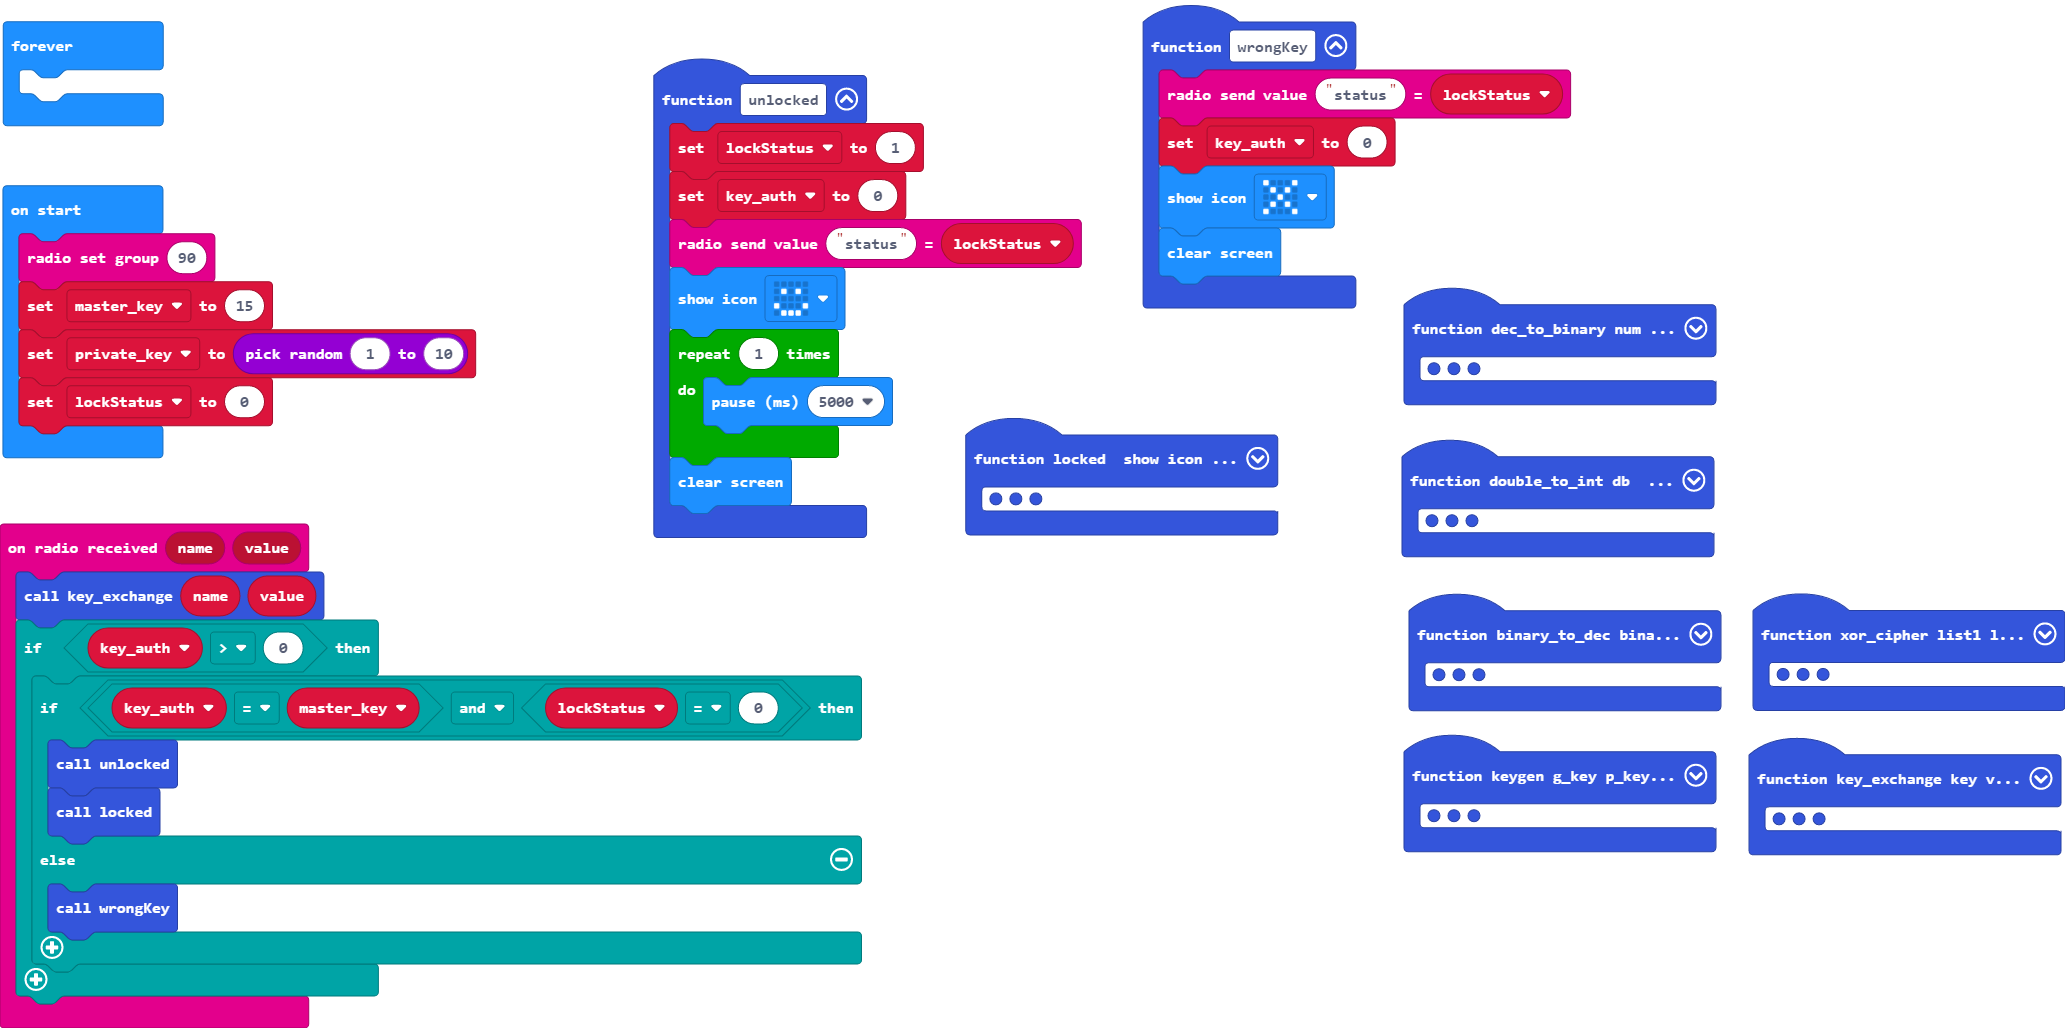
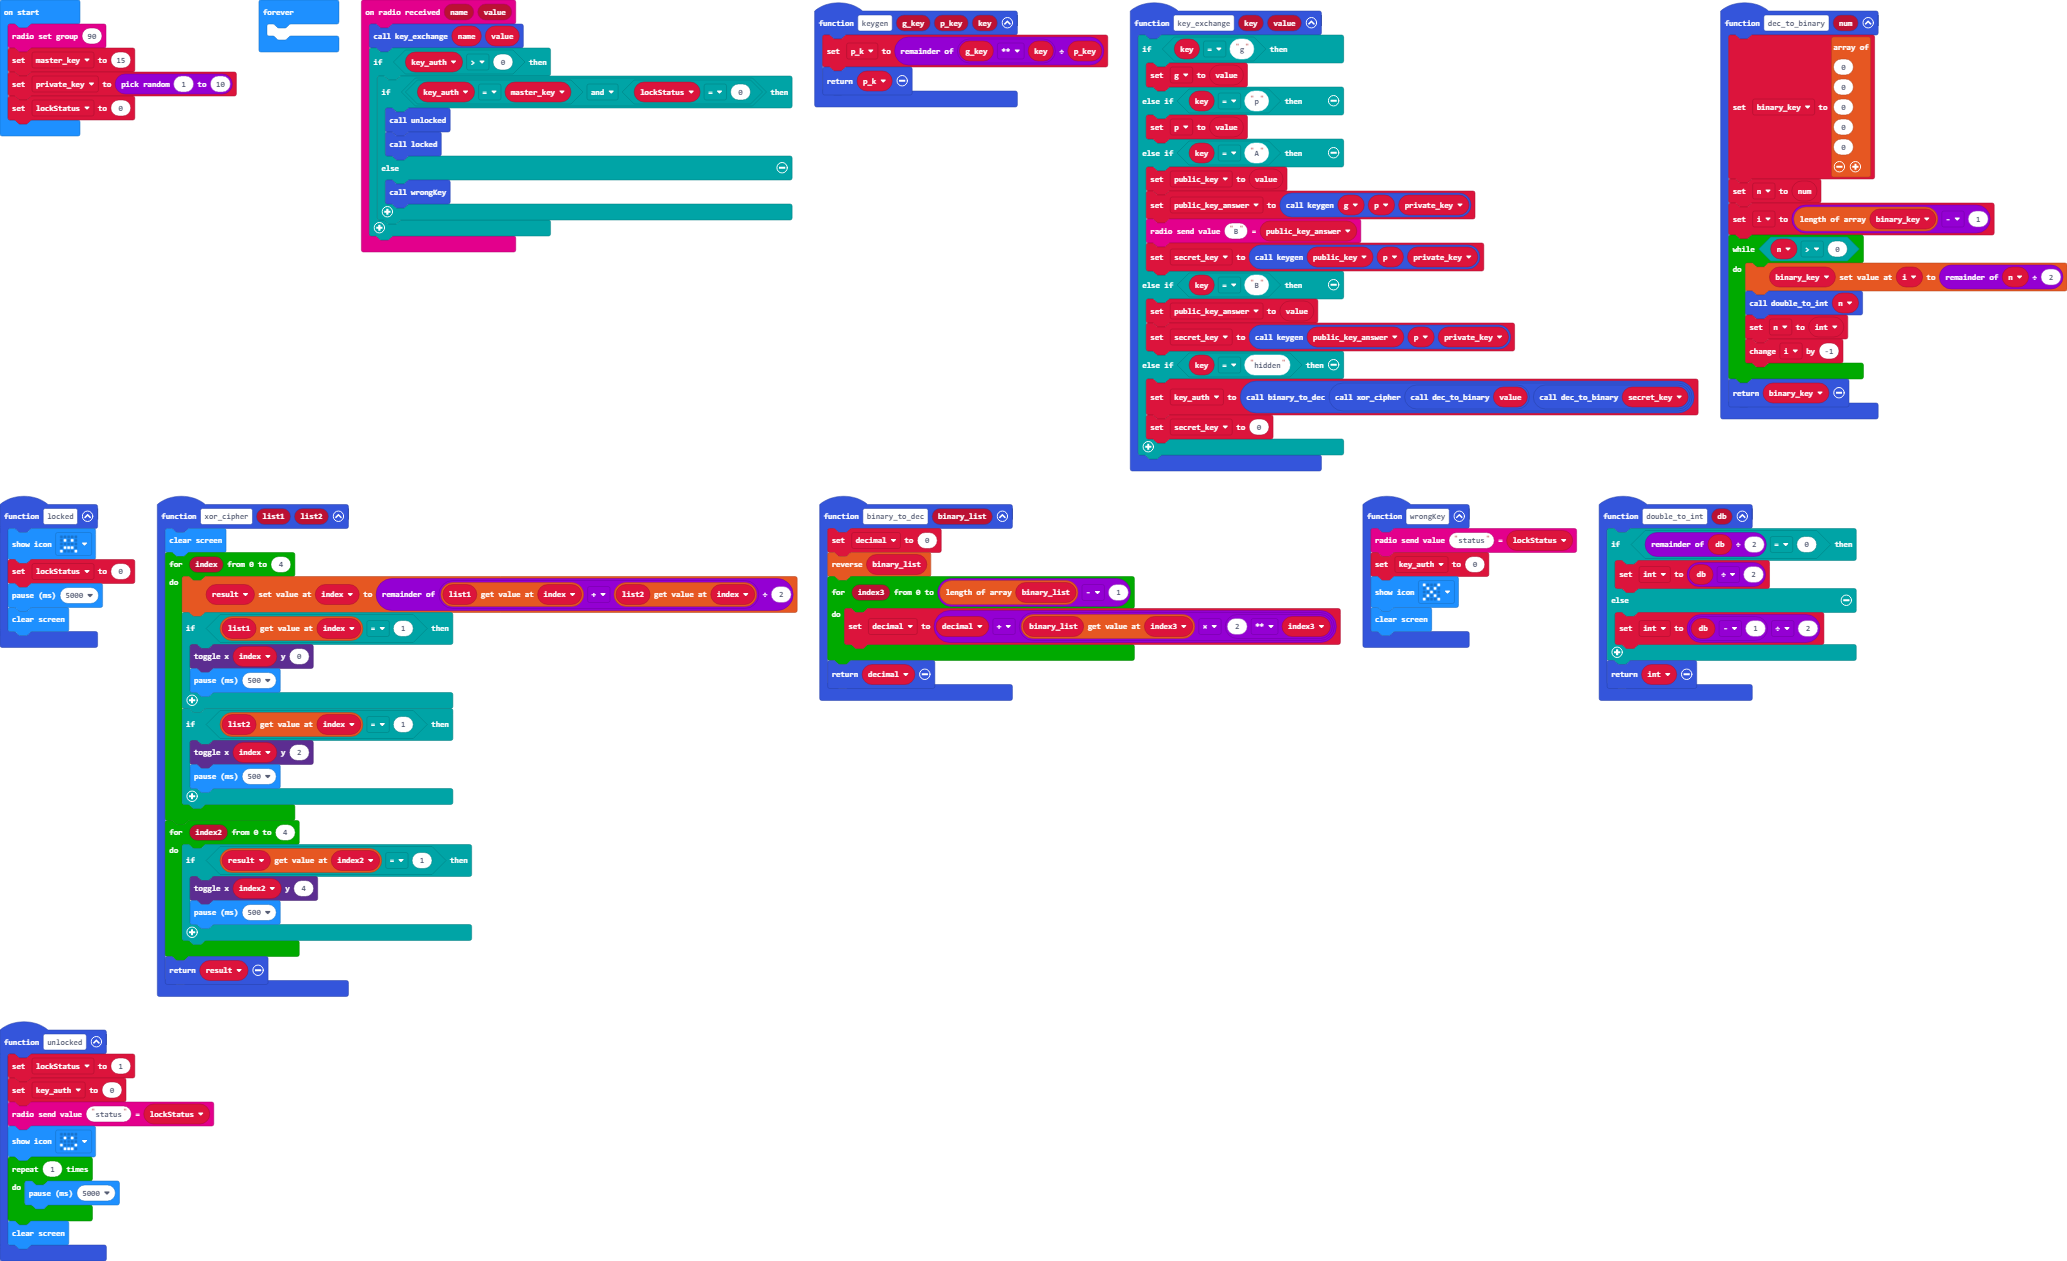
Buggfritt

diff --git a/main.ts b/main.ts
@@ -58,9 +58,9 @@ function xor_cipher (list1: number[], list2: number[]) {
             basic.pause(500)
         }
     }
-    for (let index = 0; index <= 4; index++) {
-        if (result[index] == 1) {
-            led.toggle(index, 4)
+    for (let index2 = 0; index2 <= 4; index2++) {
+        if (result[index2] == 1) {
+            led.toggle(index2, 4)
             basic.pause(500)
         }
     }
@@ -69,8 +69,8 @@ function xor_cipher (list1: number[], list2: number[]) {
 function binary_to_dec (binary_list: any[]) {
     decimal = 0
     binary_list.reverse()
-    for (let index = 0; index <= binary_list.length - 1; index++) {
-        decimal = decimal + binary_list[index] * 2 ** index
+    for (let index3 = 0; index3 <= binary_list.length - 1; index3++) {
+        decimal = decimal + binary_list[index3] * 2 ** index3
     }
     return decimal
 }
